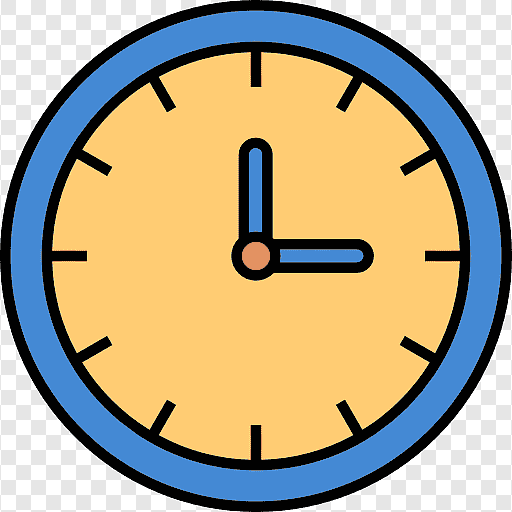
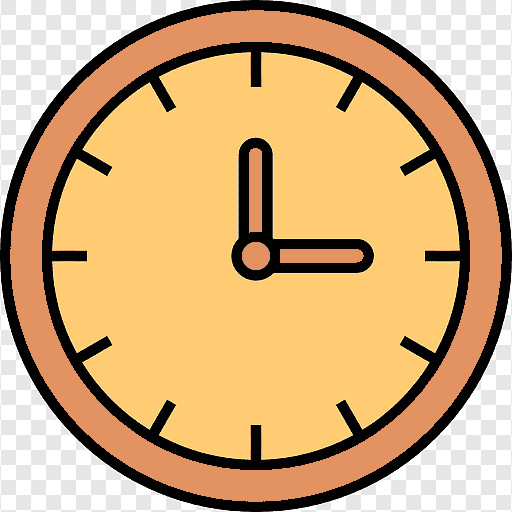
Stylization of game elements

Changed region(s): [[0.0, 0.0, 1.0, 1.0], [0.5312, 0.4688, 0.7188, 0.5312], [0.4688, 0.2812, 0.5312, 0.4688]]

diff --git a/script.js b/script.js
@@ -66,7 +66,7 @@ function startTime() {
     const timeline = document.querySelector('.timeline');
     let progress = (100 * timeValue) / 180;
 
-    timeline.style.backgroundImage = 'linear-gradient(90deg, #47aadd ' + progress + '%, #fff ' + progress +'%)';
+    timeline.style.backgroundImage = 'linear-gradient(90deg, #FF6347 ' + progress + '%, #ffcc73 ' + progress +'%)';
 
     if (timeValue <= 0) gameOver = "ПОРАЖЕНИЕ!";
 

diff --git a/styles/time.css b/styles/time.css
@@ -18,8 +18,7 @@
     margin-left: -5px;
     width: 750px;
     height: 25px;
-    border: 1px solid #000;
     border-top-right-radius: 10px;
     border-bottom-right-radius: 10px;
-    background-image: linear-gradient(90deg, #47aadd 100%, #fff 100%);
+    background-image: linear-gradient(90deg, #FF6347 100%, #ffcc73 100%);
 }

diff --git a/styles/main.css b/styles/main.css
@@ -8,12 +8,14 @@
     padding: 0;
     box-sizing: border-box;
     font-family: sans-serif;
+    font-weight: 700;
     text-transform: uppercase;
 }
 
 body {
     width: 100vw;
     height: 100vh;
+    background-color: #20B2AA;
     display: flex;
     flex-direction: column;
     align-items: center;

diff --git a/styles/card.css b/styles/card.css
@@ -14,12 +14,11 @@
 
 .front-card {
     transform: rotateY(0deg);
-    background-color: blueviolet;
+    background-color: #CD853F;
 }
 
 .back-card {
     transform: rotateY(180deg);
-    background-color: royalblue;
     display: flex;
     justify-content: center;
     align-items: center;

diff --git a/styles/playing-field.css b/styles/playing-field.css
@@ -2,8 +2,9 @@
     padding: 10px;
     width: 800px;
     height: 500px;
-    border: 1px solid #000;
+    border: 10px solid #8B4513;
     border-radius: 10px;
+    background-color: #ffcc73;
     display: grid;
     gap: 10px;
 }

diff --git a/styles/buttons.css b/styles/buttons.css
@@ -5,6 +5,8 @@
 .button-wrap button {
     width: 200px;
     height: 100%;
+    border-radius: 10px;
+    background-color: #FF6347;
     font-size: 20px;
 }
 
